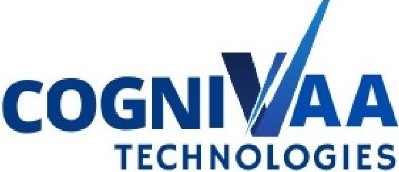
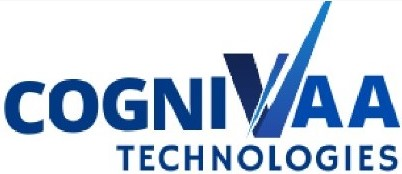
build one

diff --git a/my-project/src/components/Navbarwithhome/Navbarwithhome.jsx b/my-project/src/components/Navbarwithhome/Navbarwithhome.jsx
@@ -23,7 +23,7 @@ const NavbarHome = () => {
                 <div className="container flex justify-between items-center py-8">
                     {/* Logo section */}
                     {/* <img src="/images/logo.jpg" alt="Company logo"/> */}
-                    <div className='text-2xl flex items-center gap-2 font-bold uppercase'>
+                    <div className='text-2xl flex place-items-start gap-2 font-bold uppercase'>
                         <a href="/"><img src={logo} alt="" /></a>
                     </div>
                     {/* Menu section */}

diff --git a/my-project/src/mockData/data.js b/my-project/src/mockData/data.js
@@ -9,7 +9,7 @@ export const NavbarMenu = [
     },
     {
         id:2,
-        title:"ABOUT US",
+        title:"ABOUT",
         link:"about"
     },
     {
@@ -19,7 +19,7 @@ export const NavbarMenu = [
     },
     {
         id:4,
-        title:"WHY CHOOSE US",
+        title:"WHY US",
         link:"choose"
     },
     {
